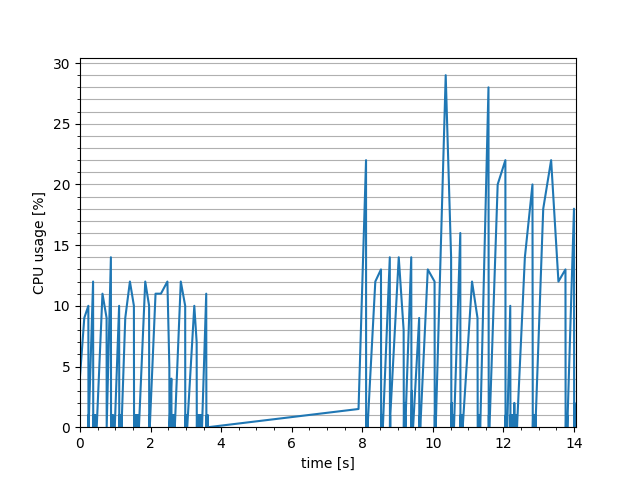
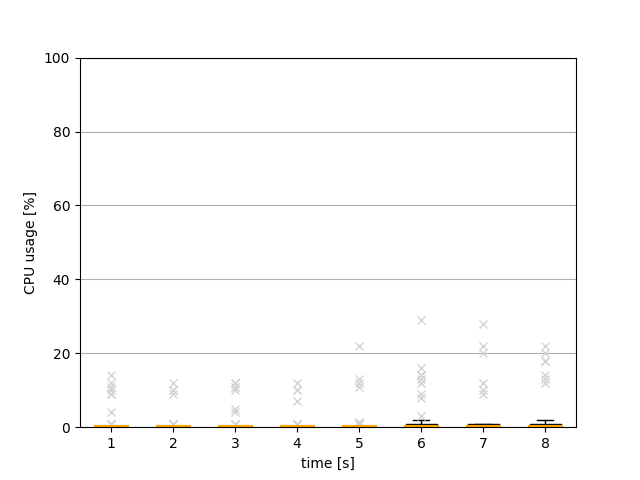
testing for min max median

Changed region(s): [[0.0312, 0.1562, 0.9062, 0.9375], [0.0625, 0.0938, 0.125, 0.1562]]

diff --git a/DataOutput.py b/DataOutput.py
@@ -1,5 +1,6 @@
 import json
 import matplotlib.pyplot as plt
+import numpy as np
 import os
 from pathlib import Path
 from datetime import datetime
@@ -261,7 +262,7 @@ class DataOutput:
 
                 plt.grid(True, "both", "y")
                 plt.xlabel("time [s]")
-                plt.minorticks_on()
+                # plt.minorticks_on()
 
                 if l == "bytes_recv" or l == "bytes_sent":
                     # get the unit of the maximum value and use it for all values
@@ -280,7 +281,26 @@ class DataOutput:
                     plt.xlim([0, max(timestamps)])
                     plt.ylim([0, max(values) + 0.05 * max(values)])
 
-                    plt.plot(timestamps, values)
+                    # plt.plot(timestamps, values)
+                    data = []
+                    nr = len(timestamps)
+
+                    sub_data = []
+                    init_cnt = nr // 10
+                    print(nr)
+                    print(init_cnt)
+                    cnt = init_cnt
+                    for e in self.lists[l]:
+                        sub_data.append(e)
+                        if cnt > 1:
+                            cnt -= 1
+                        else:
+                            cnt = init_cnt
+                            data.append(sub_data)
+                            sub_data = []
+
+                    # plt.plot(timestamps, self.lists[l])
+                    plt.boxplot(data)
                 elif l == "cpu_percent" or l == "ram_percent":
                     if l == "cpu_percent":
                         plt.ylabel("CPU usage [%]")
@@ -301,10 +321,28 @@ class DataOutput:
                             self.lists[l]
                         )  # set max_limit to 5 percent more than the actual maximum
 
-                    plt.xlim([0, max(timestamps)])
-                    plt.ylim([min_limit, max_limit])
+                    # plt.xlim([0, max(timestamps)])
+                    plt.ylim([0, 100])
 
-                    plt.plot(timestamps, self.lists[l])
+                    data = []
+                    nr = len(timestamps)
+
+                    sub_data = []
+                    init_cnt = nr // 8
+                    print(nr)
+                    print(init_cnt)
+                    cnt = init_cnt
+                    for e in self.lists[l]:
+                        sub_data.append(e)
+                        if cnt > 1:
+                            cnt -= 1
+                        else:
+                            cnt = init_cnt
+                            data.append(sub_data)
+                            sub_data = []
+
+                    # plt.plot(timestamps, self.lists[l])
+                    plt.boxplot(data, showfliers=True, flierprops = dict(marker = "x", markeredgecolor='lightgrey'), medianprops = dict(color = "blue", linewidth = 1.5))
                 elif l == "pps_recv" or l == "pps_sent":
                     if l == "pps_recv":
                         plt.ylabel("packets per second (received)")
